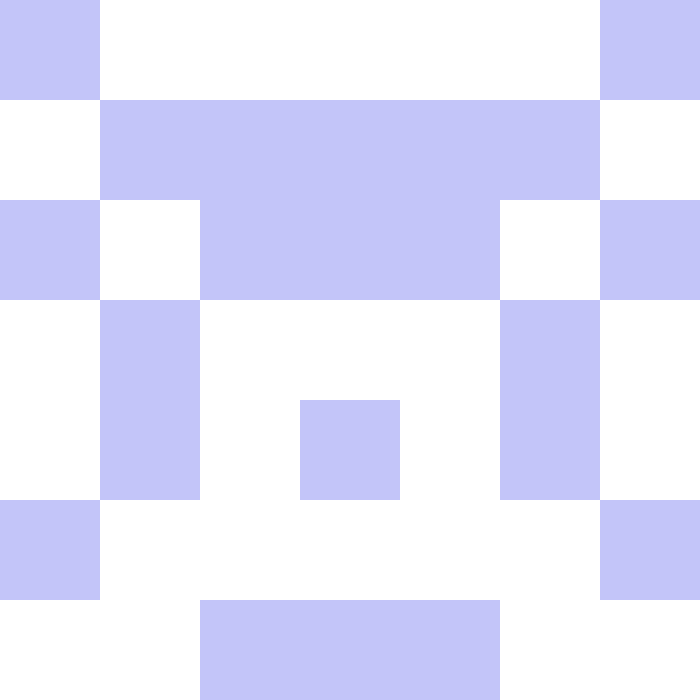
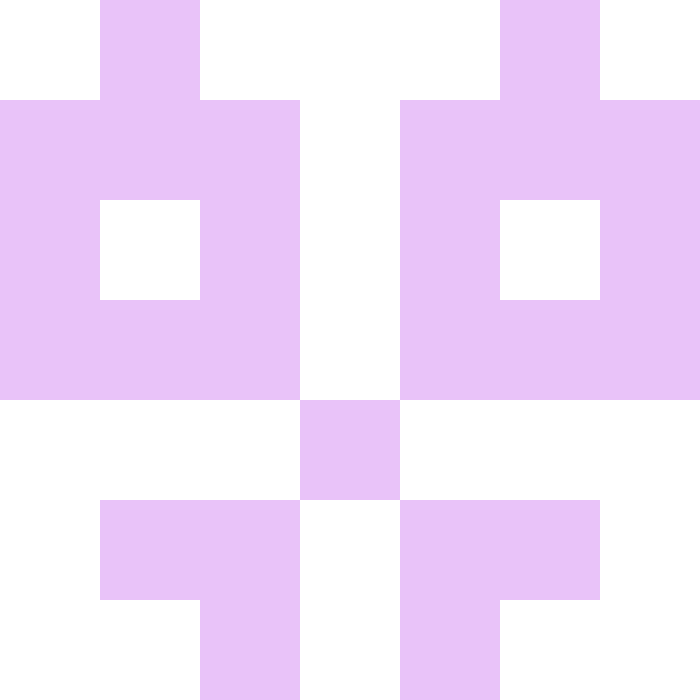
made it generate random colors

diff --git a/main.java b/main.java
@@ -187,7 +187,32 @@ class Drawing extends Canvas {
     }
 
     public static ProfilePicture makeProfilePicture() {
-        return new ProfilePicture(canvasSize / boxSize, boxSize, green, Color.WHITE);
+        return new ProfilePicture(canvasSize / boxSize, boxSize, randomColor(), Color.WHITE);
+    }
+
+    public static Color randomColor() {
+        Random random = new Random();
+        int randomInt = random.nextInt(6) + 1;
+        if (randomInt == 1) {
+            return red;
+        }
+        if (randomInt == 2) {
+            return orange;
+        }
+        if (randomInt == 3) {
+            return yellow;
+        }
+        if (randomInt == 4) {
+            return green;
+        }
+        if (randomInt == 5) {
+            return blue;
+        }
+        if (randomInt == 6) {
+            return purple;
+        }
+        System.out.println("We have a large problem");
+        return Color.WHITE;
     }
 
     public void exportImage(String imageName) {
